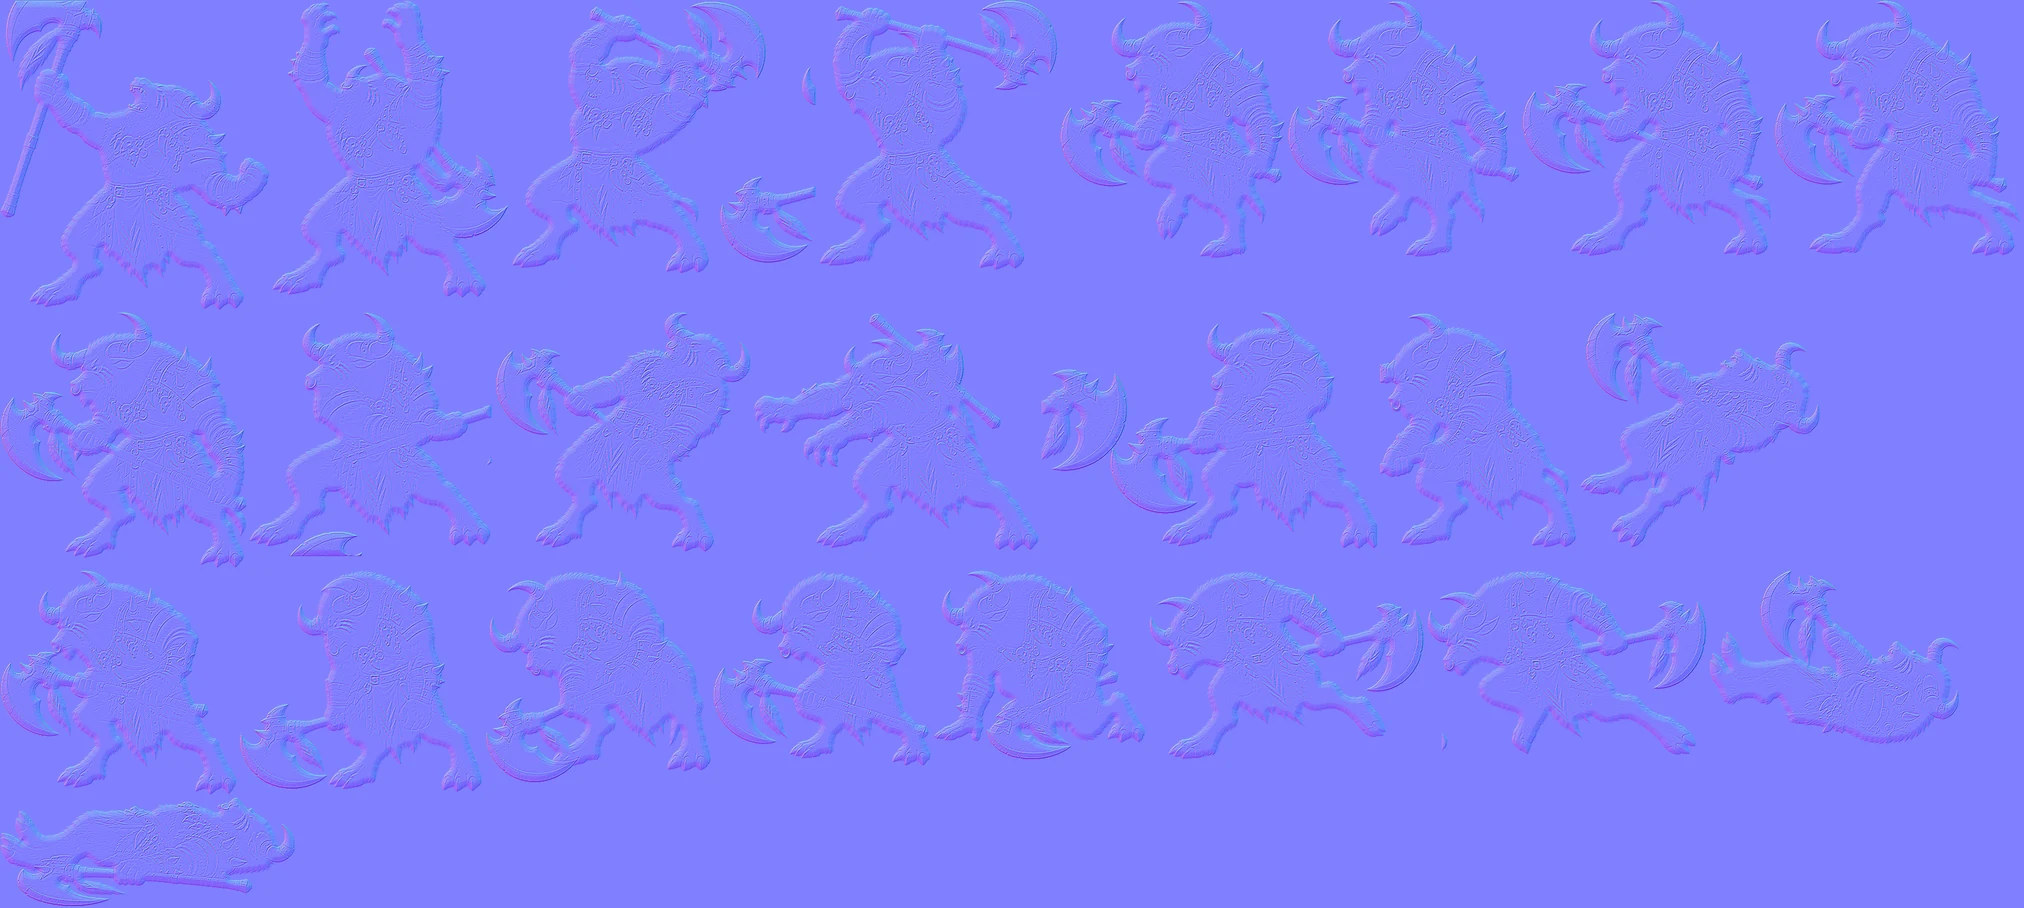
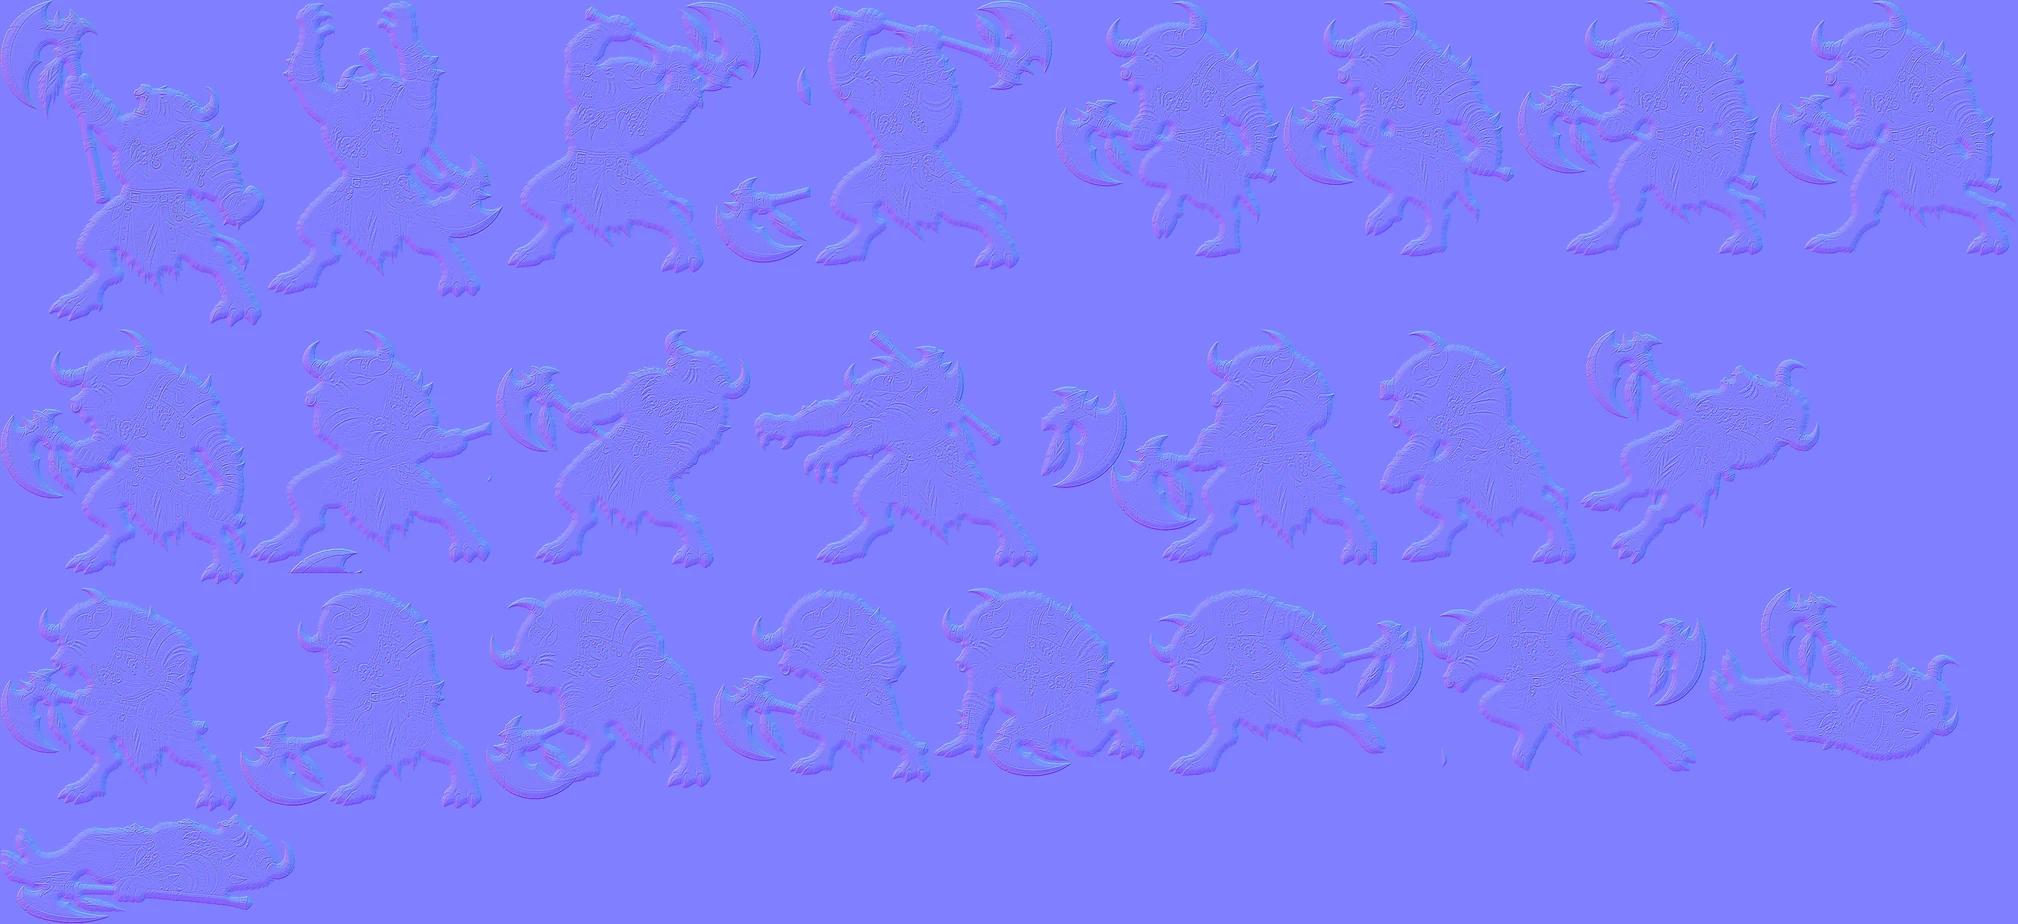
Re-rolls: Chieftain roar now drawn facing left (special-case flip removed), Riley run second half re-rolled (opposite-leg phases), dedicated Chieftain HUD portrait

diff --git a/src/enemies.js b/src/enemies.js
@@ -146,7 +146,7 @@ export class Chieftain extends Enemy {
     else { this.atk = this.T.atk; this.setState('attack', 'chop'); }
     this.scene.onEnemyAttack(this);
   }
-  startRoar() { this.face(Math.sign(this.target.x - this.x)); this.setState('roar', 'roar'); this.sprite.flipX = !this.sprite.flipX; /* the roar frame was generated facing right (all other boss frames face left), so display it with the opposite flip */ this.nextRoar = 16; sfx.roar(); this.scene.fx.trauma = Math.min(1, this.scene.fx.trauma + 0.4); this.scene.time.delayedCall(450, () => this.alive && this.scene.summonHounds(this)); }
+  startRoar() { this.face(Math.sign(this.target.x - this.x)); this.setState('roar', 'roar'); this.nextRoar = 16; sfx.roar(); this.scene.fx.trauma = Math.min(1, this.scene.fx.trauma + 0.4); this.scene.time.delayedCall(450, () => this.alive && this.scene.summonHounds(this)); }
   startLift() { this.setState('lift', 'lift'); this.nextCart = rand(4.5, 6.5); this.face(Math.sign(this.target.x - this.x)); }
   startCharge() { this.face(Math.sign(this.target.x - this.x)); this.setState('charge', 'charge'); this.chargeDir = this.facing; this.hitIds.clear(); sfx.roar(); this.cool = rand(1.5, 2.5); }
   charging(dt) {

diff --git a/src/hud.js b/src/hud.js
@@ -89,8 +89,8 @@ export class HUD extends Phaser.Scene {
       const b = this.boss; this.bossShown = Math.min(1, this.bossShown + dt * 1.5); const W = 500, w = W * this.bossShown, x0 = 560, y0 = 44;
       if (!this.bossName) {
         this.bossName = this.add.text(x0, y0 - 20, 'TROLLOC CHIEFTAIN', { fontFamily: PX, fontSize: '12px', color: '#ffd0b0', stroke: '#000', strokeThickness: 4 }).setOrigin(0, 0.5);
-        this.bossPic = this.add.image(x0 - 40, y0 + 4, 'bossPortrait').setDisplaySize(56, 56);
-        this.bossRing = this.add.graphics(); this.bossRing.lineStyle(3, 0xb0503a, 1); this.bossRing.strokeCircle(x0 - 40, y0 + 4, 29);
+        this.bossPic = this.add.image(x0 - 44, y0 + 2, 'bossPortrait').setDisplaySize(68, 68);
+        this.bossRing = this.add.graphics(); this.bossRing.lineStyle(3, 0xb0503a, 1); this.bossRing.strokeCircle(x0 - 44, y0 + 2, 35); this.bossRing.lineStyle(1, 0x000000, 0.8); this.bossRing.strokeCircle(x0 - 44, y0 + 2, 37);
       }
       const fade = !b.alive && b.state === 'dead';
       const a = fade ? Math.max(0, this.bossName.alpha - dt * 0.8) : 1;
